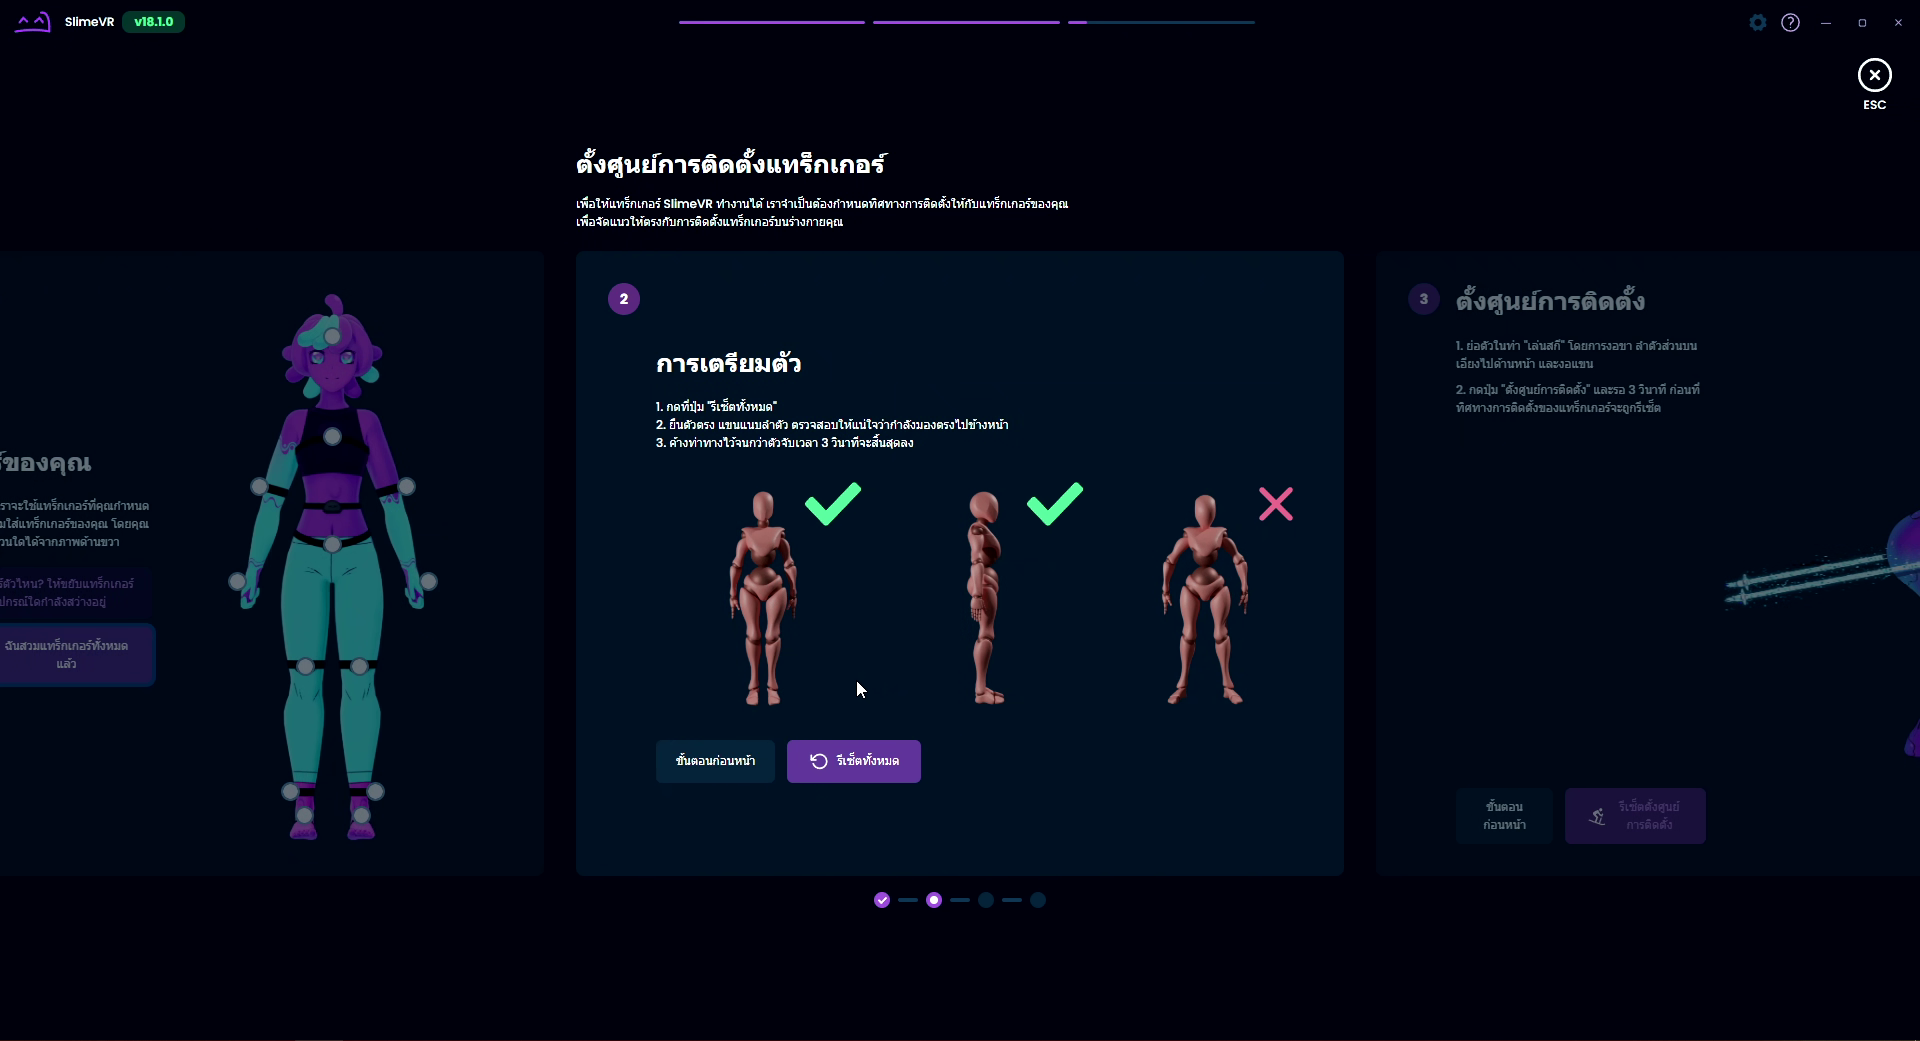
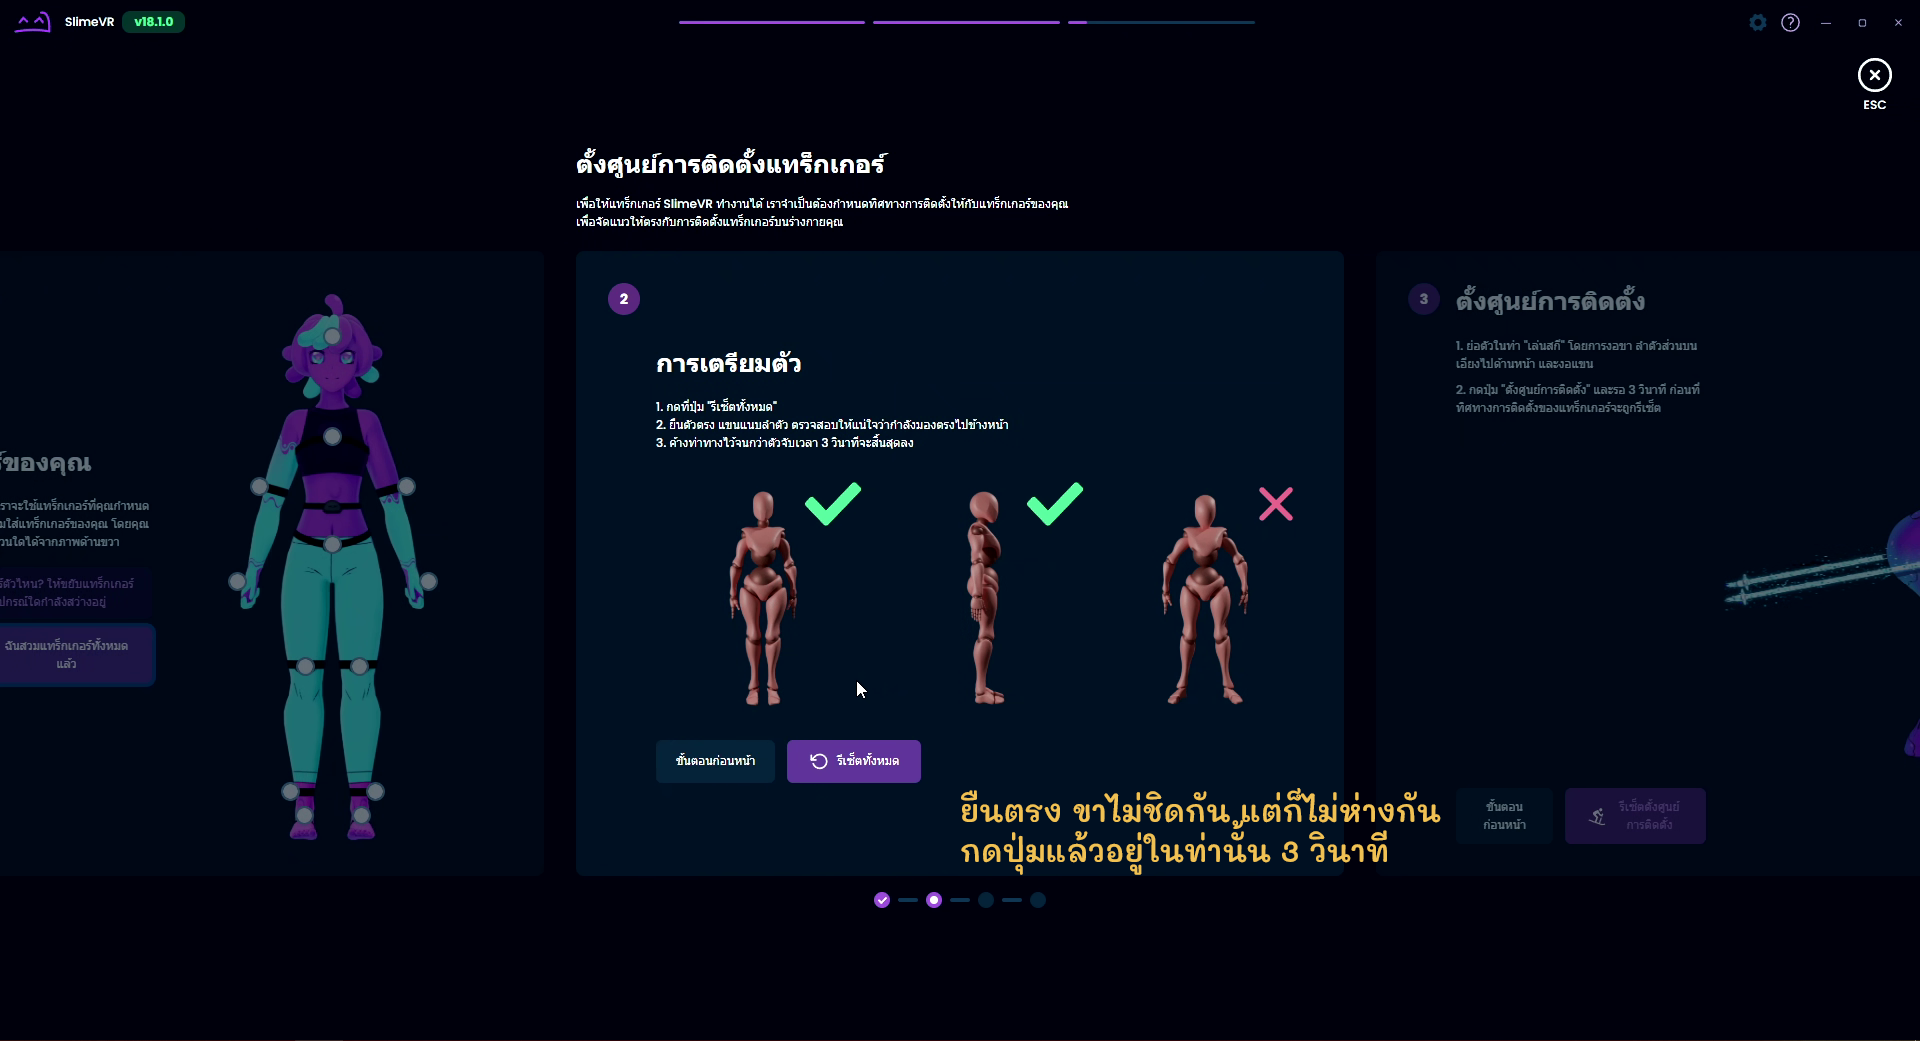
update setup wizard

Changed region(s): [[0.5, 0.7378, 0.75, 0.83]]

diff --git a/_pages/slimevr-docs/onboarding/setup-wizard.md b/_pages/slimevr-docs/onboarding/setup-wizard.md
@@ -67,6 +67,8 @@ sidebar:
 เสร็จแล้วให้ทำการตั้งศูนย์แทร็กเกอร์ใหม่ โดยให้ตัวเองอยู่ในท่าเล่นสกี หรือที่ผมเรียกว่า ไก่ย่างถูกเผา โดยจะนับถอยหลัง 3 วินาทีก่อนการตั้งศูนย์จะเป็นผล
 
 ![slimevronboard-1](/assets/images/slimeonboard/setupa3.png){: .align-center}
+![slimevronboard-1](/assets/images/slimeonboard/setup3aex.jpg){: .align-center}
+cr. Spazzwan@slimevr discord official (Temp, till i can make my own img guide with his reference)
 <br>
 
 เมื่อรีเซ็ตแล้ว ให้ลองขยับร่างกาย ขยับขาดู หากมีการเคลื่อนไหวที่ผิดปรกติ ก็สามารถย้อนกลับไปเริ่มขั้นตอนการตั้งศูนย์ใหม่อีกครั้งได้ แต่ถ้าการเคลื่อนไหวดีแล้ว ให้กดปุ่มเพื่อไปยังขั้นตอนต่อไปเลย
